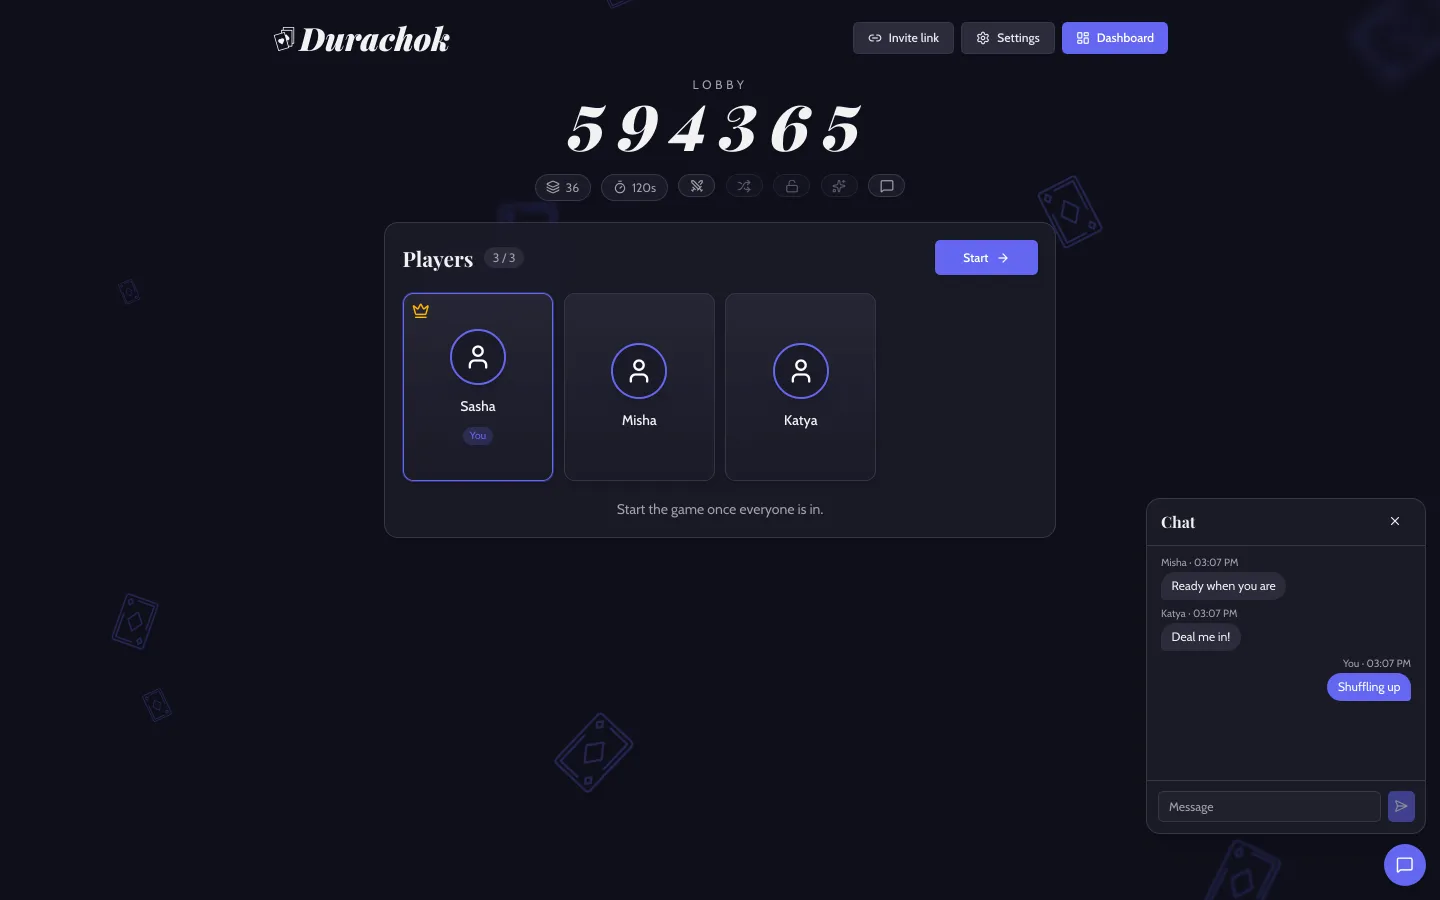
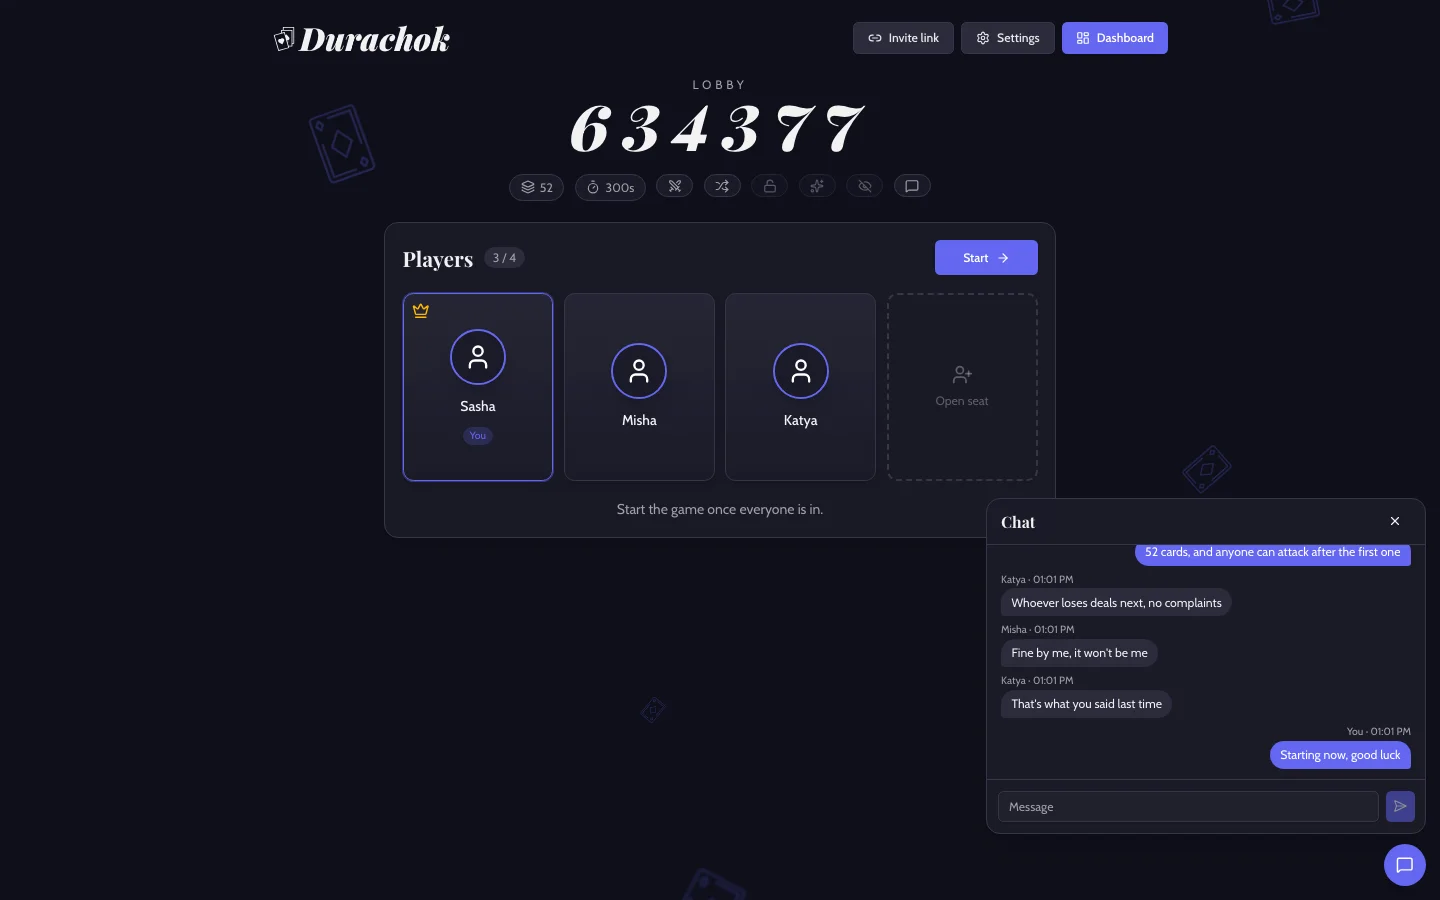
web: let a player widen the chat by its left border, and keep it at the newest message (#521)
* web: let a player widen the chat by its left border, and keep it at the newest message

The chat's left border is a handle that the player drags, or moves with the arrow keys once
focused, to make the chat between 280 and 640 pixels wide, and never wider than the window.
A phone's chat spans the screen, so it has none.

The list of messages is laid out from the bottom up, so the browser keeps it at the newest
message however fast messages come, rather than smooth-scrolling after each one, which fell
behind when messages were spammed and stopped once a full chat kept the same length. A player
who scrolls up to read older messages isn't pulled back down, until they send one of their own.

Closes #38

* web: keep the chat's width limits in the chat, the only place that uses them

* docs: show the widened chat in the README's lobby screenshot

diff --git a/apps/web/src/components/LobbyChat.tsx b/apps/web/src/components/LobbyChat.tsx
@@ -1,6 +1,6 @@
 import { AnimatePresence, motion } from "framer-motion";
 import { MessageSquare, SendHorizontal, X } from "lucide-react";
-import { FormEvent, useEffect, useRef, useState } from "react";
+import { FormEvent, KeyboardEvent, PointerEvent, useId, useRef, useState } from "react";
 
 import { Button } from "@/components/ui/button";
 import { Input } from "@/components/ui/input";
@@ -10,6 +10,18 @@ import { Message } from "@durachok/transport";
 
 /** The longest message that the server takes. */
 const MAX_LENGTH = 200;
+
+/** How wide the chat is, in pixels, until the player drags its left border. */
+const CHAT_WIDTH = 320;
+
+/** The narrowest that the player can make the chat. */
+const MIN_CHAT_WIDTH = 280;
+
+/** The widest that the player can make the chat, unless the window is narrower still. */
+const MAX_CHAT_WIDTH = 640;
+
+/** How far an arrow key moves the chat's left border, in pixels. */
+const KEY_STEP = 32;
 
 type Props = {
     messages: Message[];
@@ -26,7 +38,9 @@ export default function LobbyChat({ messages, me, onSend }: Props) {
     const [open, setOpen] = useState(false);
     const [draft, setDraft] = useState("");
     const [seen, setSeen] = useState(messages.length);
-    const list = useRef<HTMLOListElement>(null);
+    const [width, setWidth] = useState(CHAT_WIDTH);
+    const scroller = useRef<HTMLDivElement>(null);
+    const id = useId();
 
     // While the chat is open, the player sees every message as it arrives.
     if (open && seen !== messages.length) {
@@ -34,19 +48,14 @@ export default function LobbyChat({ messages, me, onSend }: Props) {
     }
     const unread = messages.slice(seen).filter(({ name }) => name !== me).length;
 
-    // The newest message shows, as it arrives and when the chat opens.
-    useEffect(() => {
-        if (open && messages.length > 0) {
-            list.current?.scrollTo({ top: list.current.scrollHeight, behavior: "smooth" });
-        }
-    }, [messages.length, open]);
-
     const send = (event: FormEvent) => {
         event.preventDefault();
         const message = draft.trim();
         if (message) {
             onSend(message);
             setDraft("");
+            // The player's message comes in at the bottom, even when they had scrolled up.
+            scroller.current?.scrollTo({ top: 0 });
         }
     };
 
@@ -55,12 +64,15 @@ export default function LobbyChat({ messages, me, onSend }: Props) {
             <AnimatePresence>
                 {open && (
                     <motion.section
+                        id={id}
                         aria-label="Chat"
-                        className="flex h-96 w-80 flex-col overflow-hidden rounded-2xl border bg-card/95 shadow-xl backdrop-blur-sm max-sm:h-[60dvh] max-sm:w-[calc(100vw-1.5rem)]"
+                        className="relative flex h-96 w-(--chat-width) flex-col overflow-hidden rounded-2xl border bg-card/95 shadow-xl backdrop-blur-sm sm:max-w-[calc(100vw-2rem)] max-sm:h-[60dvh] max-sm:w-[calc(100vw-1.5rem)]"
+                        style={{ "--chat-width": `${width}px` }}
                         initial={{ opacity: 0, y: 12, scale: 0.97 }}
                         animate={{ opacity: 1, y: 0, scale: 1 }}
                         exit={{ opacity: 0, y: 12, scale: 0.97, transition: { duration: 0.15 } }}
                     >
+                        <ResizeBorder chat={id} width={width} onResize={setWidth} />
                         <header className="flex items-center justify-between border-b px-4 py-2">
                             <h2 className="m-0 text-lg">Chat</h2>
                             <Button
@@ -72,37 +84,46 @@ export default function LobbyChat({ messages, me, onSend }: Props) {
                                 <X />
                             </Button>
                         </header>
-                        <ol ref={list} className="m-0 flex flex-1 list-none flex-col gap-2 overflow-y-auto px-4 py-3">
-                            {messages.length === 0 && (
-                                <li className="m-auto text-sm text-muted-foreground">No messages yet. Say hello.</li>
-                            )}
-                            {messages.map(({ name, time, message }) => {
-                                const mine = name === me;
-                                return (
-                                    <li
-                                        key={`${time}-${name}`}
-                                        className={cn(
-                                            "flex max-w-[85%] flex-col gap-0.5",
-                                            mine ? "items-end self-end" : "items-start",
-                                        )}
-                                    >
-                                        <span className="text-xs text-muted-foreground">
-                                            {mine ? "You" : name} · {formatTime(time)}
-                                        </span>
-                                        <span
+                        {/*
+                         * Laid out from the bottom up, the list starts at its newest message and stays
+                         * there as messages arrive, however fast they come, and as the chat is resized.
+                         * When the player scrolls up to read older messages, new ones don't pull them back down.
+                         */}
+                        <div ref={scroller} className="flex flex-1 flex-col-reverse overflow-y-auto">
+                            <ol className="m-0 flex grow list-none flex-col gap-2 px-4 py-3">
+                                {messages.length === 0 && (
+                                    <li className="m-auto text-sm text-muted-foreground">
+                                        No messages yet. Say hello.
+                                    </li>
+                                )}
+                                {messages.map(({ name, time, message }) => {
+                                    const mine = name === me;
+                                    return (
+                                        <li
+                                            key={`${time}-${name}`}
                                             className={cn(
-                                                "break-words rounded-2xl px-3 py-1.5 text-sm",
-                                                mine
-                                                    ? "rounded-br-sm bg-primary text-primary-foreground"
-                                                    : "rounded-bl-sm bg-secondary",
+                                                "flex max-w-[85%] flex-col gap-0.5",
+                                                mine ? "items-end self-end" : "items-start",
                                             )}
                                         >
-                                            {message}
-                                        </span>
-                                    </li>
-                                );
-                            })}
-                        </ol>
+                                            <span className="text-xs text-muted-foreground">
+                                                {mine ? "You" : name} · {formatTime(time)}
+                                            </span>
+                                            <span
+                                                className={cn(
+                                                    "break-words rounded-2xl px-3 py-1.5 text-sm",
+                                                    mine
+                                                        ? "rounded-br-sm bg-primary text-primary-foreground"
+                                                        : "rounded-bl-sm bg-secondary",
+                                                )}
+                                            >
+                                                {message}
+                                            </span>
+                                        </li>
+                                    );
+                                })}
+                            </ol>
+                        </div>
                         <form onSubmit={send} className="flex gap-2 border-t p-3">
                             <Input
                                 value={draft}
@@ -132,5 +153,79 @@ export default function LobbyChat({ messages, me, onSend }: Props) {
                 )}
             </Button>
         </div>
+    );
+}
+
+type ResizeBorderProps = {
+    /** The id of the chat that the border resizes. */
+    chat: string;
+    width: number;
+    onResize: (width: number) => void;
+};
+
+/**
+ * The chat's left border, which the player drags, or moves with the arrow keys, to make the
+ * chat wider or narrower. On a phone, the chat spans the screen, so it has none.
+ */
+function ResizeBorder({ chat, width, onResize }: ResizeBorderProps) {
+    // Where the pointer was, and how wide the chat was, when the player started dragging.
+    const drag = useRef<{ x: number; width: number } | null>(null);
+
+    // The chat sits in the right corner, so it widens as its left border moves left.
+    const resize = (from: number, right: number) => {
+        onResize(Math.min(MAX_CHAT_WIDTH, Math.max(MIN_CHAT_WIDTH, from - right)));
+    };
+
+    const start = (event: PointerEvent<HTMLDivElement>) => {
+        if (event.button !== 0) {
+            return;
+        }
+        // The border follows the pointer even as it leaves the border, until the player lets go.
+        event.currentTarget.setPointerCapture(event.pointerId);
+        drag.current = { x: event.clientX, width };
+    };
+
+    const move = (event: PointerEvent<HTMLDivElement>) => {
+        if (drag.current) {
+            resize(drag.current.width, event.clientX - drag.current.x);
+        }
+    };
+
+    // The pointer lets go of the border as the player releases it, or the browser takes it over.
+    const stop = () => {
+        drag.current = null;
+    };
+
+    const step = (event: KeyboardEvent<HTMLDivElement>) => {
+        switch (event.key) {
+            case "ArrowLeft":
+                event.preventDefault();
+                resize(width, -KEY_STEP);
+                return;
+            case "ArrowRight":
+                event.preventDefault();
+                resize(width, KEY_STEP);
+                return;
+        }
+    };
+
+    return (
+        <div
+            // oxlint-disable-next-line jsx-a11y/prefer-tag-over-role -- a separator that can be focused and moved is a widget, which an <hr> can't be
+            role="separator"
+            aria-orientation="vertical"
+            aria-label="Resize the chat"
+            aria-controls={chat}
+            aria-valuemin={MIN_CHAT_WIDTH}
+            aria-valuemax={MAX_CHAT_WIDTH}
+            aria-valuenow={width}
+            aria-valuetext={`${width} pixels wide`}
+            tabIndex={0}
+            onPointerDown={start}
+            onPointerMove={move}
+            onLostPointerCapture={stop}
+            onKeyDown={step}
+            className="absolute inset-y-0 left-0 z-10 w-1.5 cursor-ew-resize touch-none select-none transition-colors hover:bg-primary/30 focus-visible:bg-primary focus-visible:outline-none max-sm:hidden"
+        />
     );
 }

diff --git a/README.md b/README.md
@@ -25,7 +25,7 @@ Start a lobby, share the pin, and play with up to eight friends, on a computer o
 
 <table>
   <tr>
-    <td width="38%"><img src="./docs/lobby.webp" alt="A lobby of three players, with its chat open" /></td>
+    <td width="38%"><img src="./docs/lobby.webp" alt="A lobby of three players, with its chat open and widened" /></td>
     <td width="38%"><img src="./docs/announcement.webp" alt="The table announcing that the player is defending" /></td>
     <td width="24%" rowspan="2"><img src="./docs/phone.webp" alt="The game on a phone" /></td>
   </tr>
